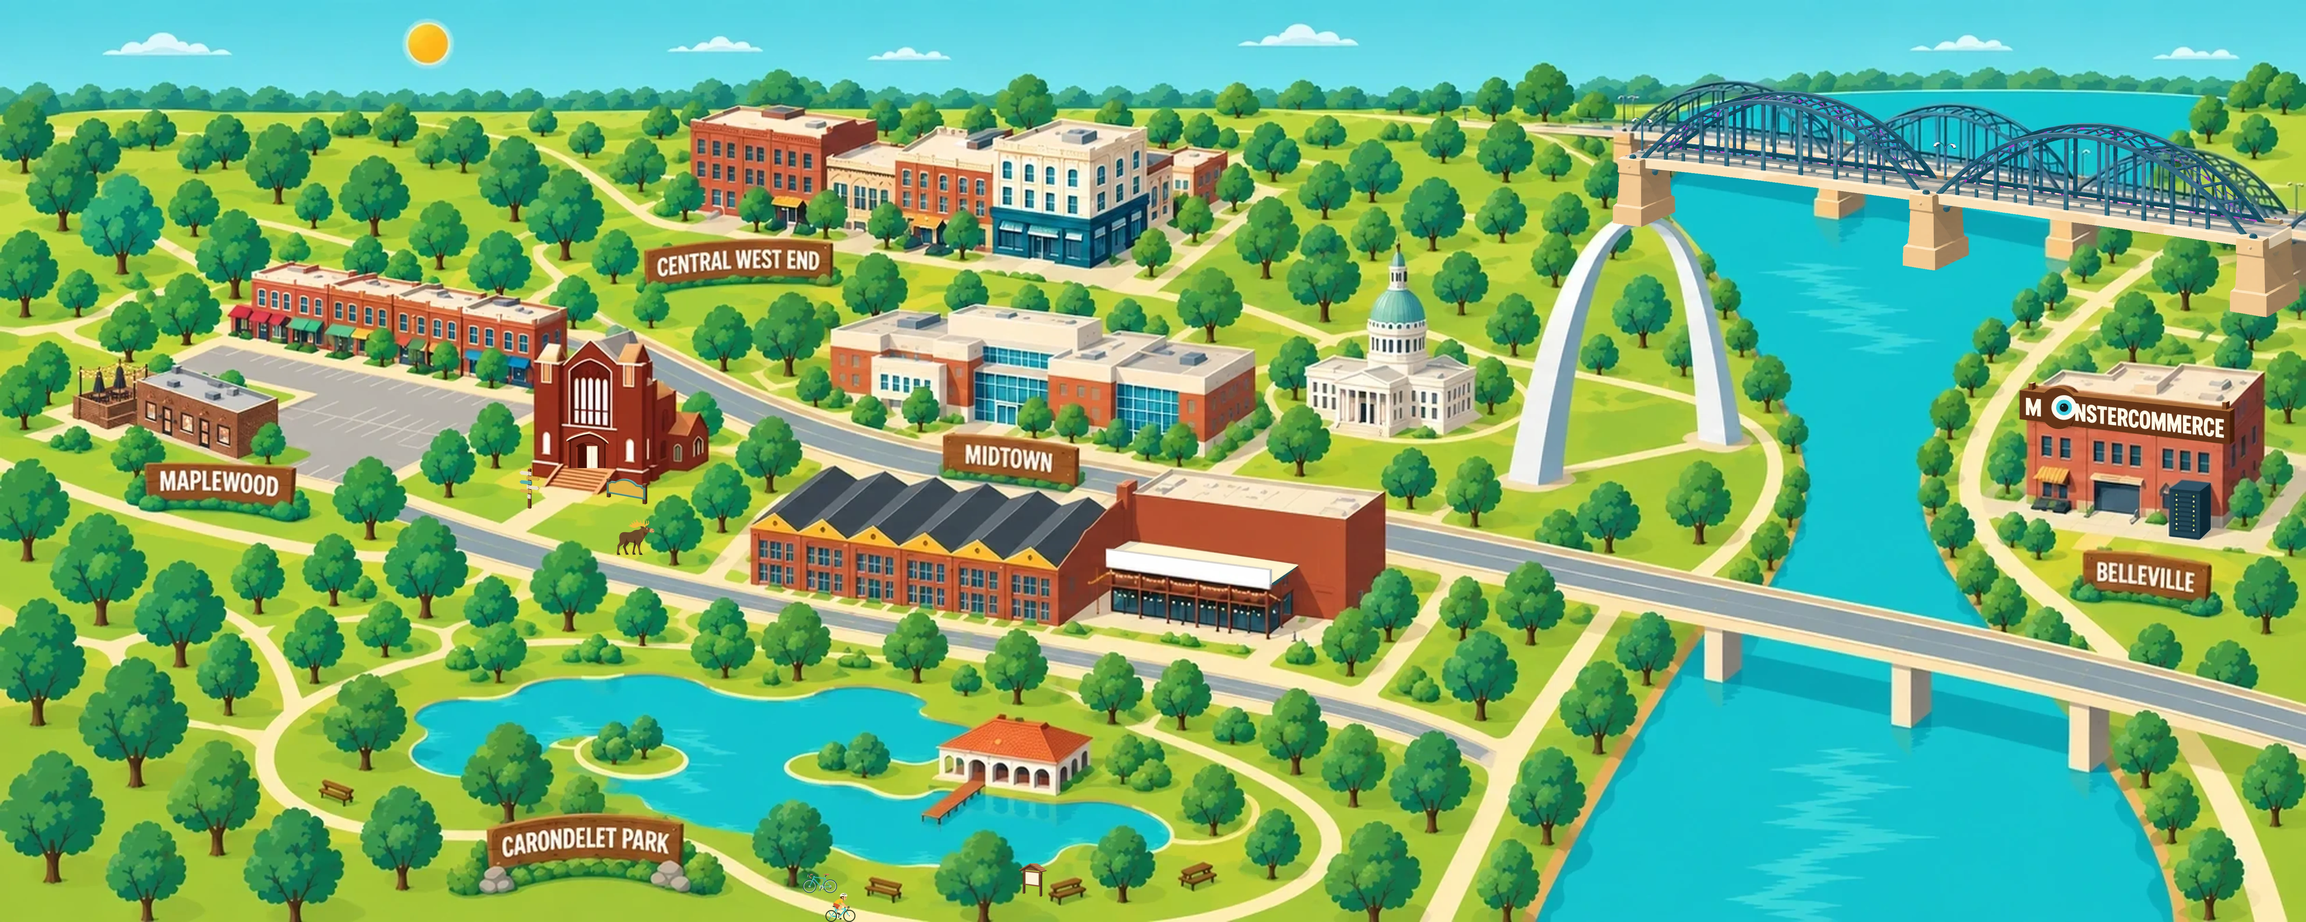
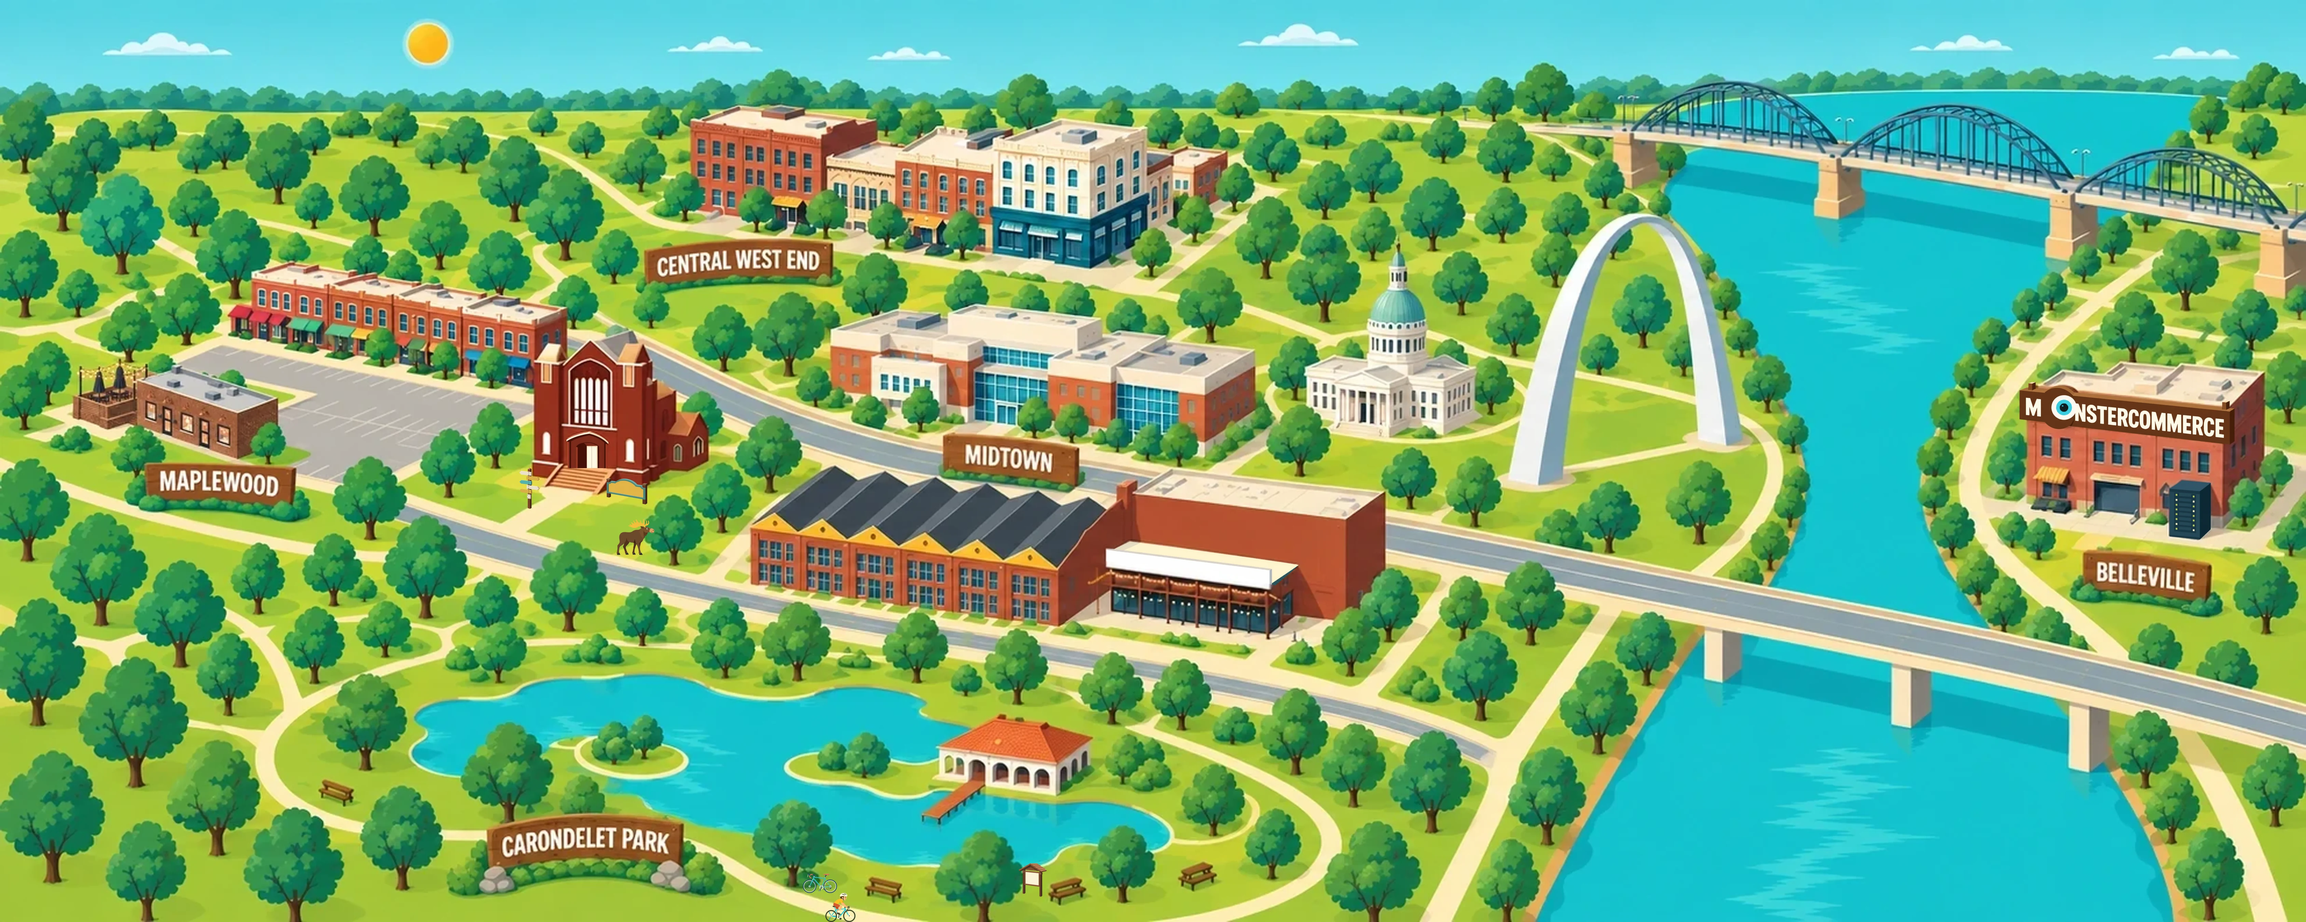
Eads Bridge as a measured matte clear of the Arch; scenery is not a venue; honest review verdict

Changed region(s): [[0.6844, 0.0933, 1.0, 0.3422]]

diff --git a/src/lib/scenes/overworld.ts b/src/lib/scenes/overworld.ts
@@ -3,6 +3,7 @@ import type { District, Overworld, Rect } from './types';
 // World px at 6750 x 2700, measured on the accepted overworld master (art/generated/overworld-master, issue 04).
 // Registered prop and foreground rects are each extraction's trim (art/generated/<id>/asset.json); the welcome
 // board, signpost, bike and ride sign are placed by their manifest world rects; the moose and rider by sceneLayouts.
+// The Old Courthouse and the Maplewood storefront row are scenery painted in the plate, not venues.
 const centre = (r: Rect) => r.x + r.w / 2;
 
 // One ground plane, one horizon: the depth factor runs 0.85 at the treeline to 1.0 at the south edge in every
@@ -50,9 +51,7 @@ const districts: District[] = [
 				rect: { x: 210, y: 1070, w: 600, h: 240 },
 				door: '/side-project',
 				props: []
-			},
-			// The downtown Maplewood storefront row on the north side of the shared plaza: scenery, no door.
-			{ id: 'maplewood-row', name: 'Downtown Maplewood', rect: { x: 680, y: 800, w: 980, h: 290 }, props: [] }
+			}
 		]
 	},
 	{
@@ -126,9 +125,7 @@ const districts: District[] = [
 						rect: { x: 3238, y: 1585, w: 563, h: 152 }
 					}
 				]
-			},
-			// The Old Courthouse on the Arch grounds, west of the Arch: scenery, no door.
-			{ id: 'old-courthouse', name: 'Old Courthouse', rect: { x: 3800, y: 720, w: 520, h: 560 }, props: [] }
+			}
 		]
 	},
 	{
@@ -219,7 +216,7 @@ export const OVERWORLD: Overworld = {
 		],
 		// The Eads deck slopes from (4880, 370) to (6320, 600); the walkable rect spans the water between the banks.
 		deck: { x: 4880, y: 340, w: 1440, h: 290 },
-		bridge: { key: 'eads-bridge', rect: { x: 4719, y: 266, w: 2012, h: 663 } },
+		bridge: { key: 'eads-bridge', rect: { x: 4715, y: 339, w: 2035, h: 434 } },
 		// Passing under the Poplar Street bridge is the river's end.
 		southEndY: 1900,
 		// The lawn between the Arch's legs, above the highway.

diff --git a/tests/build-output.test.ts b/tests/build-output.test.ts
@@ -39,11 +39,12 @@ test('overworld: skip link, h1, signpost, then districts west to east with their
 	assert.deepEqual(texts(signpost(layer), 'a').slice(0, 4), ['Resume', 'Email', 'LinkedIn', 'GitHub']);
 	assert.match(hrefs(signpost(layer))[0], /\.pdf$/);
 	assert.match(hrefs(signpost(layer))[1], /^mailto:/);
-	// District order is west to east by centre x on the accepted art (tests/overworld-geometry.test.ts); the layer follows it.
-	assert.deepEqual(hrefs(signpost(layer)).slice(4), OVERWORLD.districts.map((d) => `#${d.id}`));
-	assert.deepEqual(texts(layer, 'h2'), OVERWORLD.districts.map((d) => d.name));
-	assert.deepEqual(texts(layer, 'h3'), OVERWORLD.districts.flatMap((d) => d.venues.map((v) => v.name)));
-	assert.ok(texts(layer, 'h3').includes('Moosylvania') && texts(layer, 'h3').includes('MonsterCommerce'));
+	// West to east by centre x on the accepted master: the park lake sits west of the West End row.
+	assert.deepEqual(hrefs(signpost(layer)).slice(4), ['#maplewood', '#carondelet-park', '#central-west-end', '#midtown', '#belleville']);
+	assert.deepEqual(texts(layer, 'h2'), ['Maplewood', 'Carondelet Park', 'Central West End', 'Midtown', 'Belleville']);
+	assert.deepEqual(texts(layer, 'h3'), [
+		'Moosylvania', 'Side Project Cellar', 'Carondelet Park', "Brennan's", 'Saint Louis University', 'The Foundry', 'MonsterCommerce'
+	]);
 	assert.ok(layer.indexOf('<nav') < layer.indexOf('<h2'), 'signpost comes before the districts');
 });
 

diff --git a/scripts/art/review.ts b/scripts/art/review.ts
@@ -24,8 +24,9 @@ export async function buildReview(root: string, manifest: Manifest, composites =
     const parts = Object.values(rig), x = Math.min(...parts.map(p => p.x)), y = Math.min(...parts.map(p => p.y));
     return [name, { x, y, w: Math.max(...parts.map(p => p.x+p.w))-x, h: Math.max(...parts.map(p => p.y+p.h))-y }];
   }));
+  const centre = (r: { x: number; y: number; w: number; h: number }) => ({ x: Math.round(r.x + r.w / 2), y: Math.round(r.y + r.h / 2) });
   const sourceScenes = [
-    { ...OVERWORLD, arrival: { x: 1835, y: 1438 }, props: [
+    { ...OVERWORLD, arrival: centre(OVERWORLD.districts.flatMap(d => d.venues.flatMap(v => v.props)).find(p => p.id === 'welcome')!.rect), props: [
       { id: 'signpost', rect: OVERWORLD.signpost.rect }, ...OVERWORLD.districts.flatMap(d => d.venues.flatMap(v => v.props))
     ] },
     ...Object.values(SUB_SCENES).map(scene => ({ ...scene, arrival: { x: 1422, y: 1000 } }))

diff --git a/art/README.md b/art/README.md
@@ -27,12 +27,12 @@ Each `*-master` reference is a complete composition. Location photos supply arch
 1. Generate and inspect a master: `npm run art -- generate moosylvania-master --force`. Judge it against the real room photographs before extracting anything. To iterate on an accepted draft, copy it to `references/local/drafts/`, attach it as a composition reference and give the prompt a short fix list; the overworld master was settled this way in two runs.
 2. Choose each movable object's crop in the master. `registration.rect` is that crop in scene world coordinates. The pipeline attaches the exact crop as the final reference. Background edits remove those objects while preserving the room, furniture, perspective and illumination.
 3. Generate the layers with `--force --keep-masters`. Do not regenerate an approved master accidentally. An explicit `world` rectangle anchors the trimmed object to measured fixture bounds; otherwise placement derives from its source crop and trim offset. Inspect both: models sometimes recenter or resize extracted objects despite the prompt.
-4. For precise extraction without redrawing, `deriveFrom` plus `registration.mask` copies the original composition pixels through a measured polygon matte. Mask points are normalized to the registration crop. The SLU chair and one lobby monitor use this path after generated cutouts lost interior pixels. `deriveFrom` without a mask copies the composition, as used by the overworld.
+4. For precise extraction without redrawing, `deriveFrom` plus `registration.mask` copies the original composition pixels through a measured polygon matte. Mask points are normalized to the registration crop. The SLU chair and one lobby monitor use this path after generated cutouts lost interior pixels. `deriveFrom` without a mask copies the composition, as the overworld plate does. The overworld's two foreground trees, the marquee bulb string and the Eads Bridge are masked mattes: Codex redrew all four when asked to extract them, so their cut-outs are the master's own pixels through a traced or hand-measured polygon (a thin halo of surrounding plate pixels is invisible at rest because it lands on identical pixels).
 5. Reprocess after a rectangle change; regenerate dependent layers after a master change, then inspect all placements again. Coordinate annotations belong to that composition, not to arbitrary future camera angles.
 
 The four Moosylvania computer targets are four monitors on existing desks. They are not four cloned furniture sprites. Foreground seats face the Alamo screen; the Side Project tap bank rests on the bar; the Brennan's chair meets the rug and floor in the original perspective. Foreground scenery never covers a prop. Brennan's stationary cabinet is scenery, with its unobscured upper glass face extracted as a separate prop for highlighting and interaction. The foreground chair can overlap passive casework while remaining clear of that face. The validator rejects foreground/prop bounding-box overlaps.
 
-The Codex image tool accepts **at most five reference images** (the registration crop counts as one; the pipeline refuses more) and returns its own native size: about 1774 × 887 for a 2:1 prompt, 1254 × 1254 for a square. It cannot be told a pixel size; earlier 2048 and 2304 wide masters were `sips` upscales made by the Codex agent, and the pipeline now asks for the native file unresized. Upscaling to the plate size is the pipeline's job.
+The Codex image tool accepts **at most five reference images** (the registration crop counts as one; the pipeline refuses more) and returns its own native size: about 1774 × 887 for a 2:1 prompt, 1983 × 793 for 2.5:1, 1254 × 1254 for a square; `size` values in the manifest are those native canvases. It cannot be told a pixel size; earlier 2048 and 2304 wide masters were `sips` upscales made by the Codex agent, and the pipeline now asks for the native file unresized. Upscaling to the plate size is the pipeline's job.
 
 `generate backgrounds` selects six plates; `generate furnishings` selects interior scenery, props and foreground. Existing outputs are retained unless `--force` is present. `--keep-masters` preserves reference assets even with `--force`. Run one generator per asset at a time; independent scenes may run concurrently after shared dependencies exist. `generate <asset> --dry-run` writes its full prompt and checks available references. Processing stages outputs before replacement so failure leaves the previous asset intact.
 
@@ -40,7 +40,7 @@ The Codex image tool accepts **at most five reference images** (the registration
 
 The overworld master is one Cursor Camp style diorama: an elevated three-quarter view, north up, one continuous ground plane with a thin skyline band, about a dozen large landmarks and connected cream footpaths, so a 32 world px cursor reads as person scale beside an 80 px doorway. A Cursor Camp screenshot (`references/local/cursor-camp/`, logged in `references/locations.json`) is attached only for camera angle and object scale; the style and palette still come from the original daytime illustration. The five district signs and the MonsterCommerce roof sign are the only lettering requested.
 
-Static props are painted into the composition and extracted by registration crop, the same as the interiors: the church door, marquee (canopy and its string of bulbs as separate layers), MonsterCommerce sign and its eyeball (separate layers, so a blink draws over a dark board), server rack, two foreground trees (one south of the church, one on the park's lower straight) and the Eads Bridge cut-out. Square crops use `1024x1024`; the marquee uses a 3:2 crop with `1536x1024` and the bridge a 2.5:1 crop with `1983x793`, because the extraction canvas must keep the crop's aspect ratio. The welcome board, fingerpost, bike, park notice board, moose rig and rider rig are standalone cut-outs placed by `world` rects and `sceneLayouts` (the accepted master paints no bike or notice board, so both are generated against the park at bench scale); they are re-placed with `process <id> --force`, not regenerated, when the master changes. The rider's `travelX` sweeps the lower straight of the lake loop west of the park tree.
+Static props are painted into the composition and extracted by registration crop, the same as the interiors: the church door, marquee (canopy and its string of bulbs as separate layers), MonsterCommerce sign and its eyeball (separate layers, so a blink draws over a dark board), server rack, two foreground trees (one south of the church, one on the park's lower straight) and the Eads Bridge cut-out (deck, abutments and piers; the steel arches stay in the plate, under a cursor crossing the deck). Square crops use `1024x1024`; the marquee uses a 3:2 crop with `1536x1024` and the bridge a 2.5:1 crop with `1983x793`, because the extraction canvas must keep the crop's aspect ratio. The welcome board, fingerpost, bike, park notice board, moose rig and rider rig are standalone cut-outs placed by `world` rects and `sceneLayouts` (the accepted master paints no bike or notice board, so both are generated against the park at bench scale); they are re-placed with `process <id> --force`, not regenerated, when the master changes. The rider's `travelX` sweeps the lower straight of the lake loop west of the park tree.
 
 `src/lib/scenes/overworld.ts` carries the measured geometry: district and venue rects, prop rects copied from each extraction's `asset.json`, seven depth regions that tile the ground with one shared horizon (250) and foreground line (2700), the foreground tree rects, the river water polygon, the Eads deck and bridge cut-out, the Poplar Street south-end line and the Arch reset point. `tests/overworld-geometry.test.ts` checks those rules, including the signpost and moose inside the first phone frame centred on the welcome board.
 

diff --git a/art/reviews/2026-09-24-overworld.md b/art/reviews/2026-09-24-overworld.md
@@ -1,11 +1,11 @@
 # Overworld prop pass on the accepted master
 
-**Verdict:** accepted. Master P (6750 × 2700) carries every overworld prop, both foreground trees, the Eads Bridge cut-out, the four standalone cut-outs and both rigs at measured positions, and `src/lib/scenes/overworld.ts` now describes that artwork. See [asset hashes and checks](2026-09-24-overworld.json) and [the assembled composite](../generated/composites/overworld.webp).
+**Verdict:** passes every automated check and the assembled-composite inspection; workshop visual acceptance is still open (see the last paragraph). Master P (6750 × 2700) carries every overworld prop, both foreground trees, the Eads Bridge cut-out, the four standalone cut-outs and both rigs at measured positions, and `src/lib/scenes/overworld.ts` now describes that artwork. See [asset hashes and checks](2026-09-24-overworld.json) and [the assembled composite](../generated/composites/overworld.webp).
 
-- Registered extractions on P: church door, marquee canopy, MonsterCommerce sign and eyeball, server rack, Eads Bridge. Each was inspected on a checkerboard and pasted back over its master crop; the door, canopy, eyeball, rack and bridge sit on their painted fixtures, the sign is a cleaner redraw of the painted board at the same angle and position.
-- Measured mattes (`deriveFrom` plus `registration.mask`, no image call): the Maplewood tree south of the church, the park tree on the lake loop's lower straight, and the marquee bulb string as a band under the canopy. Codex redrew all three when asked to extract them; the mattes copy the master's own pixels. `generate.ts` now adds an alpha channel to the crop before the matte composite, which the path had been losing.
+- Registered extractions on P: church door, marquee canopy, MonsterCommerce sign and eyeball, server rack. Each was inspected on a checkerboard and pasted back over its master crop; the door, canopy, eyeball and rack sit on their painted fixtures, the sign is a cleaner redraw of the painted board at the same angle and position.
+- Measured mattes (`deriveFrom` plus `registration.mask`, no image call): the Maplewood tree south of the church, the park tree on the lake loop's lower straight, the marquee bulb string as a band under the canopy, and the Eads Bridge as a polygon along the sloping deck with both abutments and both piers (the steel arches stay in the plate). Codex redrew all four when asked to extract them, the bridge larger and over the Arch; the mattes copy the master's own pixels. `generate.ts` now adds an alpha channel to the crop before the matte composite, which the path had been losing.
 - Standalone cut-outs re-placed with `process --force`: welcome board on the grass verge east of the church steps, fingerpost west of the steps, moose on the lawn below the path, rider on the lake loop's lower straight (`travelX` 150, sweep ends west of the park tree), bike and notice board on the lawn beside the benches. The master paints no bike or notice board; both were generated against the park at bench scale.
-- Scene data: five districts read west to east as Maplewood, Carondelet Park, Central West End, Midtown, Belleville (the park lake sits west of the West End row on this master); the Old Courthouse and the downtown Maplewood storefront row are scenery venues; seven depth regions tile the ground from the treeline (250) to the south edge; river mask traced by water colour at 100 px rows with bridge rows interpolated; Eads deck and cut-out, Poplar south end (1900) and Arch reset (4600, 1450).
+- Scene data: five districts read west to east as Maplewood, Carondelet Park, Central West End, Midtown, Belleville (the park lake sits west of the West End row on this master); the Old Courthouse and the downtown Maplewood storefront row are scenery in the plate, not venues; seven depth regions tile the ground from the treeline (250) to the south edge; river mask traced by water colour at 100 px rows with bridge rows interpolated; Eads deck and cut-out, Poplar south end (1900) and Arch reset (4600, 1450).
 - The 390 × 844 phone frame at 0.6 centred on the welcome board holds the signpost, church entrance, welcome board and moose (composite crop). Foreground never overlaps a prop or the rider's full travel (`art:validate`).
 
-Validation: `art:validate` PASS (50 assets), `art:check`, `art:test` (3), `svelte-check` (0 errors), production build, 16/16 tests. Known limits are listed in the JSON record; `art/review.html` was not opened in a browser this session, so the live overlay toggles, ambient motion and reduced motion remain for Joe to eyeball.
+Validation: `art:validate` PASS (50 assets), `art:check`, `art:test` (3), `svelte-check` (0 errors), production build, 16/16 tests. Known limits are listed in the JSON record. `art/review.html` was not opened in a browser this session, so the live overlay toggles, the phone crop, ambient motion, click reactions and reduced motion remain for Joe to eyeball before the harness items in issue 04 are ticked.

diff --git a/.scratch/buildout/issues/04-overworld-art-pass.md b/.scratch/buildout/issues/04-overworld-art-pass.md
@@ -10,10 +10,10 @@ Prop art is tightly trimmed because the hit area is the rect; moving props (moos
 
 - [x] Overworld tiles at both densities for the whole scene, and the districts read as one continuous world in the harness with no seams
 - [x] Every overworld prop has a trimmed cut-out and its world rect written to scene data; the build-output test still passes
-- [x] Depth regions written to scene data and accepted in the harness overlay
+- [ ] Depth regions written to scene data and accepted in the harness overlay
 - [x] Foreground scenery cut-outs with rects written to scene data, none overlapping a prop rect, and the same pieces painted into the tiles
-- [x] River mask, deck rect, bridge cut-out, south-end line and Arch reset point written to scene data and accepted in the harness overlay; the deck rect is excluded from the mask
-- [x] The signpost sits inside the 390 x 844 frame at 0.6 scale centred on the welcome sign, checked in the harness
+- [ ] River mask, deck rect, bridge cut-out, south-end line and Arch reset point written to scene data and accepted in the harness overlay; the deck rect is excluded from the mask
+- [ ] The signpost sits inside the 390 x 844 frame at 0.6 scale centred on the welcome sign, checked in the harness
 - [x] Moving props delivered as parts with pivots
 - [x] Prompts and judge notes recorded so a scene can be regenerated alone later
 
@@ -50,4 +50,5 @@ Every rect in `src/lib/scenes/overworld.ts` is now measured on master P; the rev
 - Re-registered on P: door, marquee, mc-sign, mc-eye, server-rack, eads-bridge (2.5:1 crop). Codex redrew rather than registered both trees and the bulb string, so `maplewood-tree`, `park-tree` and `marquee-bulbs` are measured mattes (`deriveFrom` + `registration.mask`) copied from the master; the mask path in `generate.ts` had been dropping alpha, now fixed. The first mc-sign attempt flattened the board; a tighter 3:2 crop registered it.
 - Re-placed: welcome, signpost, moose, rider (`sceneLayouts`), plus bike and ride-sign, which are now standalone cut-outs because P paints neither.
 - Scene data: districts now read Maplewood, Carondelet Park, Central West End, Midtown, Belleville by centre x (the park lake sits west of the West End row); Old Courthouse and the storefront row added as scenery venues; seven depth regions with horizon 250; river mask traced by colour; deck `{4880,340,1440,290}`, south end 1900, Arch reset `(4600,1450)`. `tests/overworld-geometry.test.ts` and `tests/build-output.test.ts` derive the district order from the module.
-- Checklist ticked on: `art:validate` PASS (50 assets), full suite 16/16, svelte-check, build. Left for Joe: open `art/review.html` (`python3 -m http.server 4174`) to eyeball the overlay toggles, ambient motion and reduced motion; the browser was not available to the agent this session.
+- Automated checks: `art:validate` PASS (50 assets), full suite 16/16, svelte-check, build. The three checklist items that say "in the harness" stay open: the agent had no browser this session, so the depth, river and phone-frame overlays were rendered from the scene module over the assembled composite instead (`art/reviews/2026-09-24-overworld.md`). Joe: open `art/review.html` (`python3 -m http.server 4174`), toggle depth and river geometry, check the phone crop, ambient motion, click reactions and reduced motion, then tick them.
+- After review: the Old Courthouse and the storefront row are scenery in the plate only (CONTEXT.md: a venue is an enterable place), and the Eads Bridge is a measured matte of the deck, abutments and piers because the Codex extraction had redrawn it larger and over the Arch.
